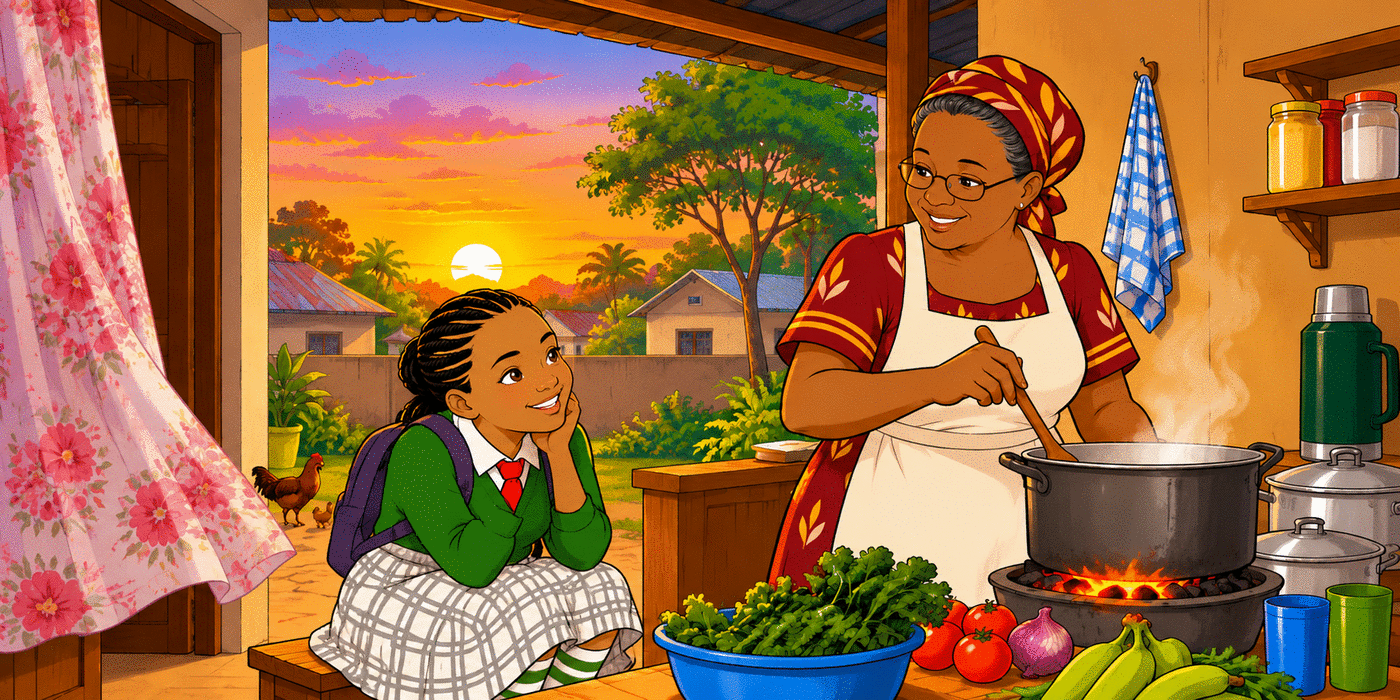
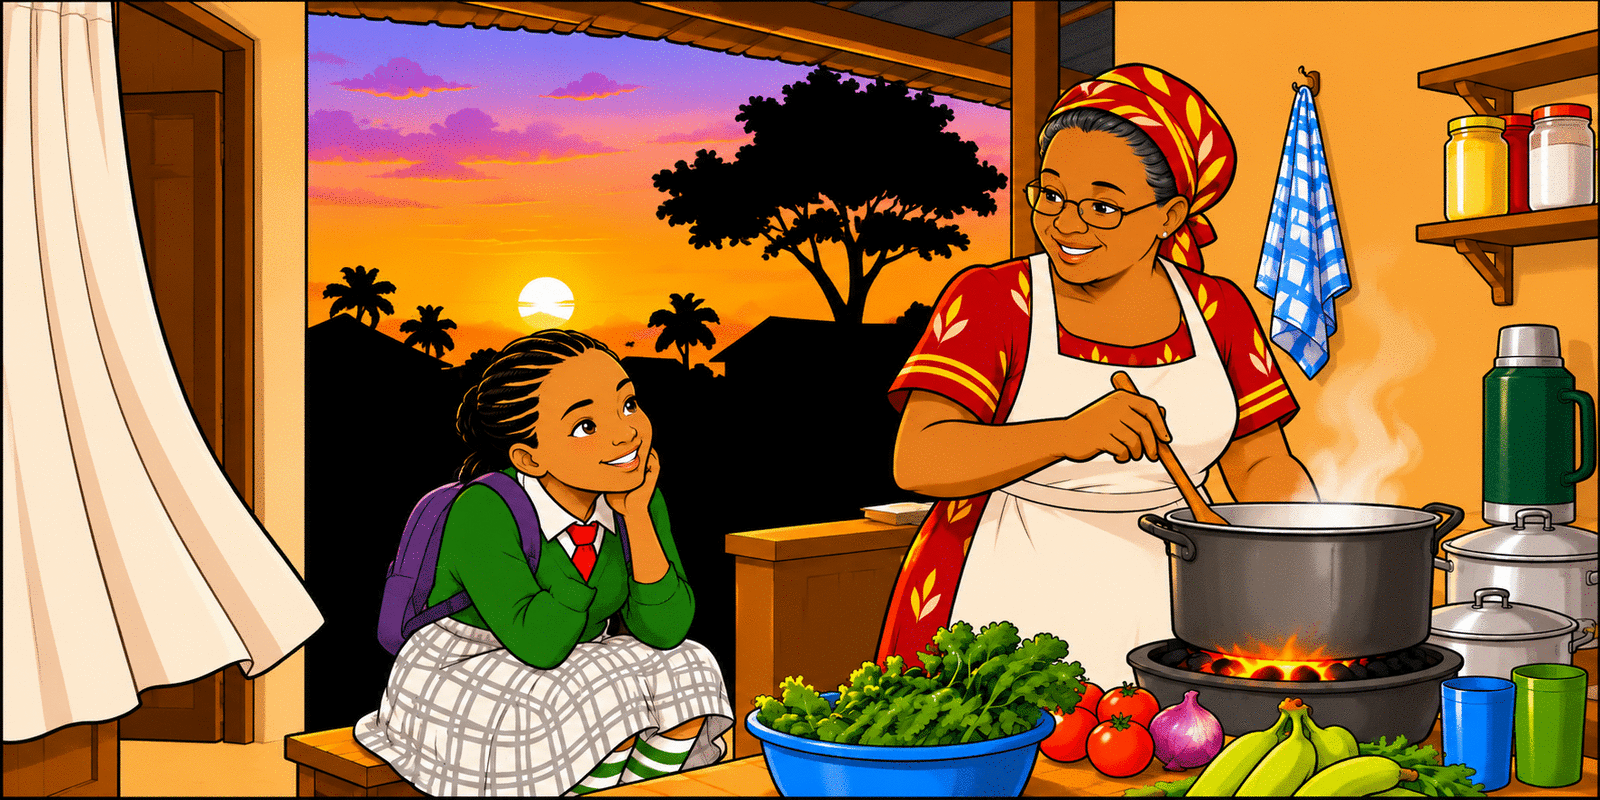
Field Guide: add Beth's arc strip art + new SCN-M7; gentle tone-down on illustrations; cache v10

diff --git a/hub2/public/field-guide/index.html b/hub2/public/field-guide/index.html
@@ -104,7 +104,7 @@ main{min-width:0}
 .scene svg{display:block;width:100%;height:auto}
 .scene-img{display:block;width:100%;height:auto}
 .modscene{margin:2px 0 8px}
-.modscene img{width:100%;border-radius:14px;display:block;border:1px solid var(--line)}.arcstrip{margin:16px 0 2px;display:block}.arcstrip img{width:100%;height:auto;display:block;border-radius:14px;border:1px solid var(--line)}.arcstrip figcaption{font-size:11.5px;color:var(--muted);margin-top:6px;line-height:1.4;text-align:center}
+.modscene img{width:100%;border-radius:14px;display:block;border:1px solid var(--line)}.modscene img,.secband img,.arcstrip img,.hero .scene-img{filter:saturate(var(--artsat,.80)) brightness(var(--artbri,.96))}.arcstrip{margin:16px 0 2px;display:block}.arcstrip img{width:100%;height:auto;display:block;border-radius:14px;border:1px solid var(--line)}.arcstrip figcaption{font-size:11.5px;color:var(--muted);margin-top:6px;line-height:1.4;text-align:center}
 .pc img.av{object-fit:cover}
 .scene .cap{padding:11px 15px;font-size:12.5px;color:var(--muted);border-top:1px solid var(--line2)}
 .scene .cap b{color:var(--ink2);font-weight:800}

diff --git a/hub2/public/field-guide/sw.js b/hub2/public/field-guide/sw.js
@@ -1,5 +1,5 @@
 /* ImaarishaSRHR Field Guide — service worker (offline-first) */
-const CACHE = 'imaarisha-fieldguide-v8';
+const CACHE = 'imaarisha-fieldguide-v10';
 const ASSETS = [
   './',
   './index.html',
